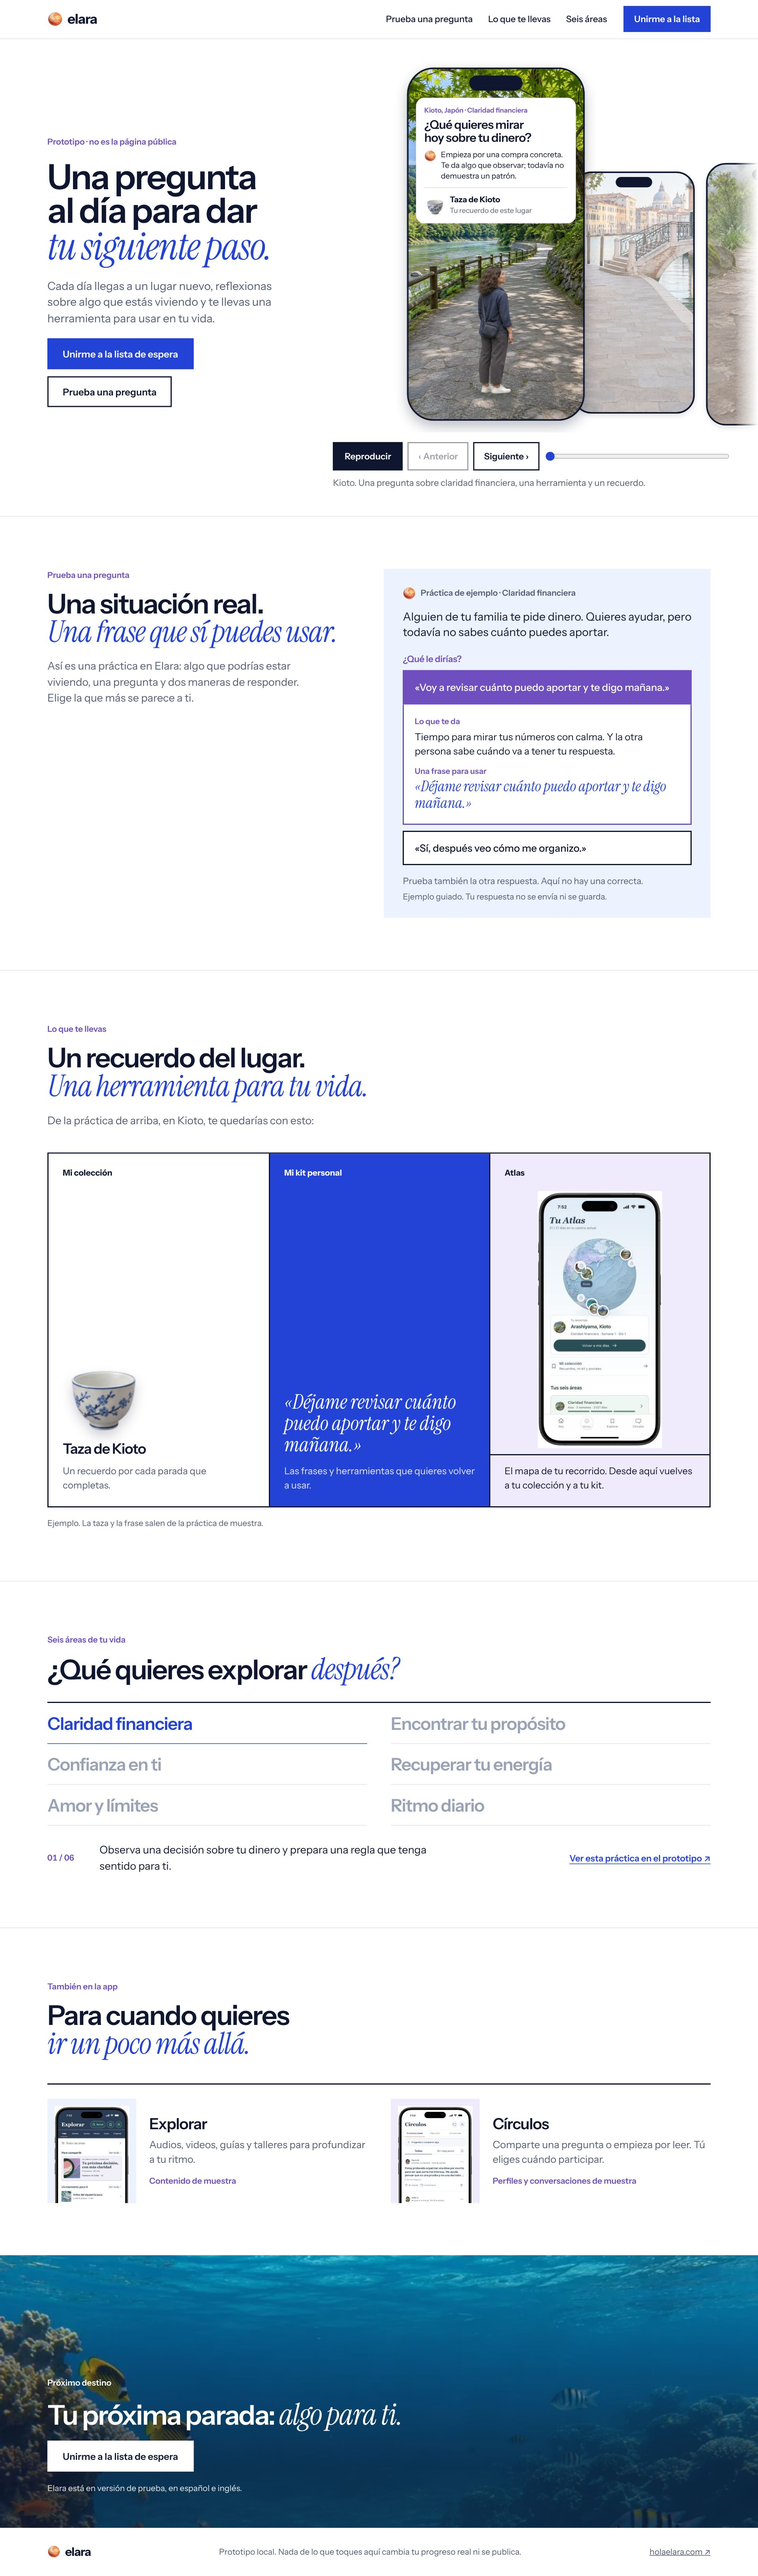
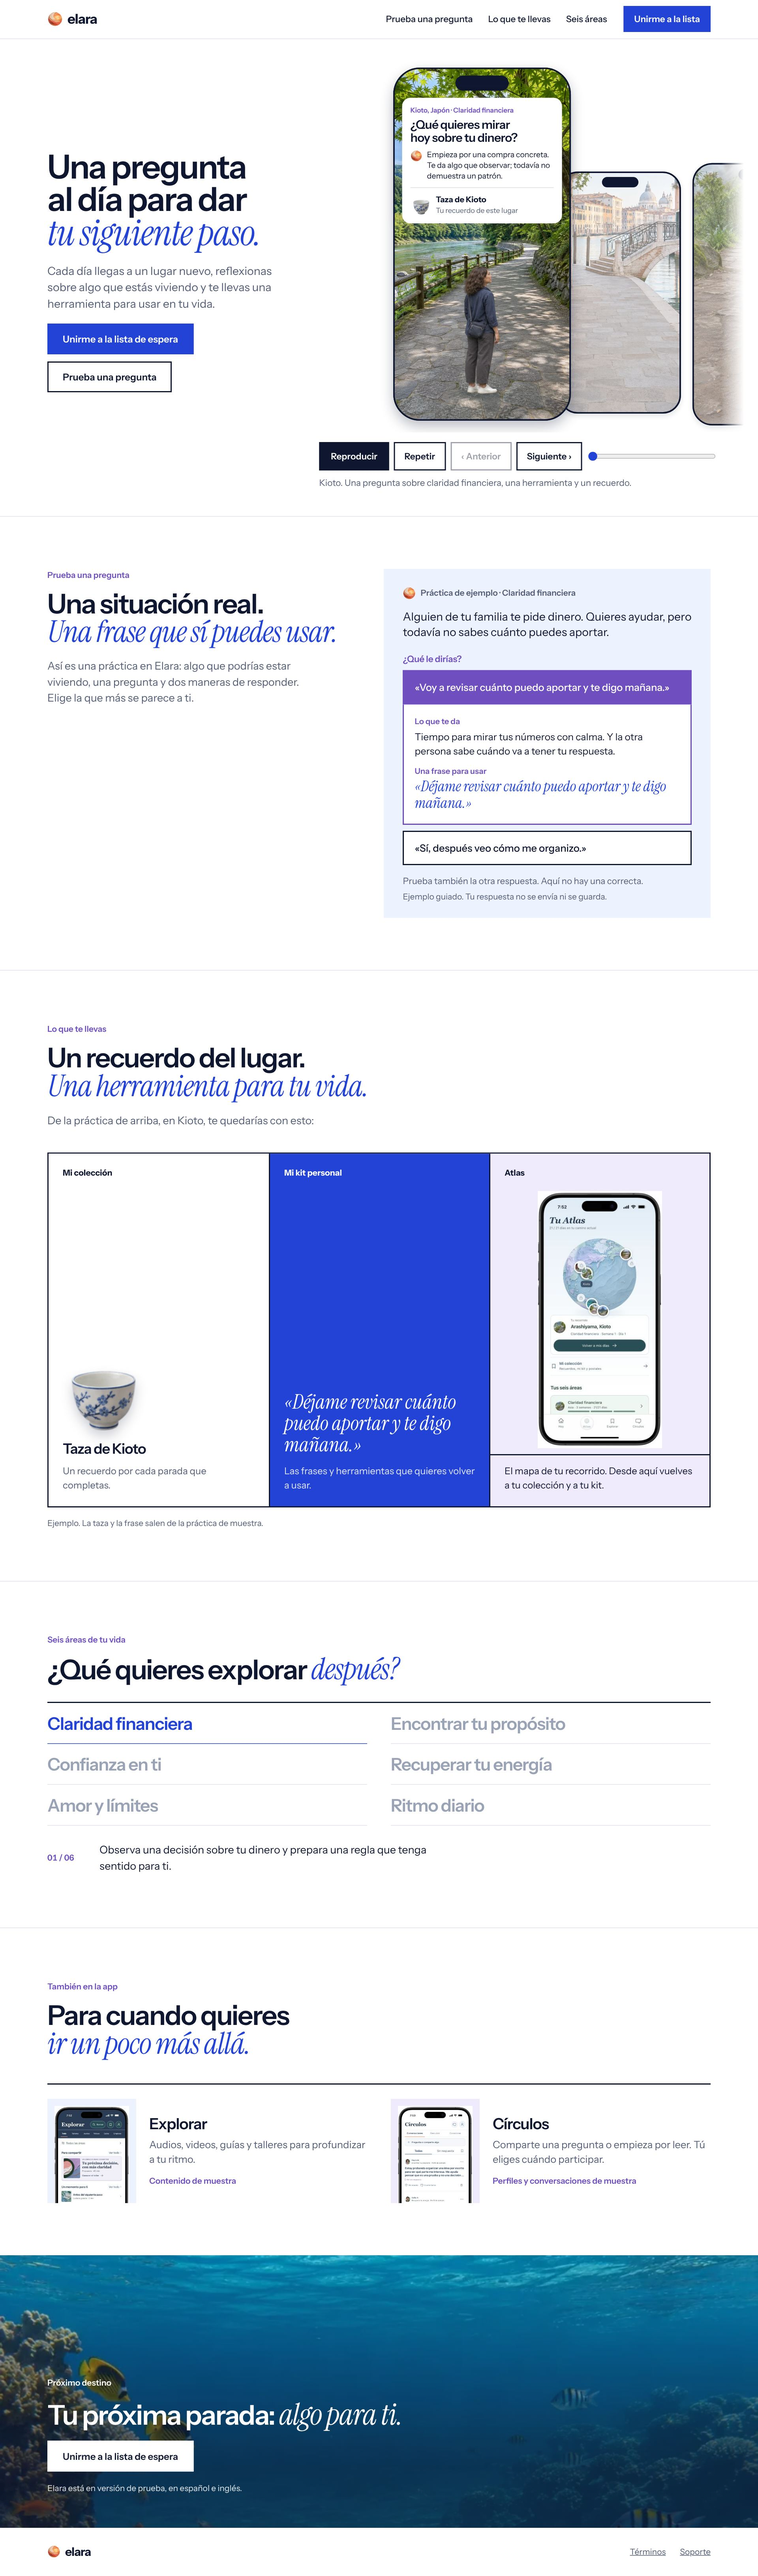
Homepage-v2, revision 5: animation 24px closer to the headline, replay button, launch cleanup, plain scripts
Claude-Session: https://claude.ai/code/session_016pxgwvGNEXtdJWN8f5VJRo

Changed region(s): [[0.5, 0.0, 1.0, 0.1868], [0.0625, 0.0623, 0.3438, 0.1557], [0.4062, 0.1557, 0.4375, 0.1868]]

diff --git a/deliverables/scenic-homepage-handoff/homepage-v2/page.css b/deliverables/scenic-homepage-handoff/homepage-v2/page.css
@@ -23,7 +23,7 @@ h1,h2,h3,p,ul,ol,figure,blockquote{margin:0}
 /* Type: one sans, set large and tight; a single italic serif phrase per heading */
 .kicker{font-size:14px;font-weight:600;color:var(--purple)}
 h1,h2{font-weight:600;letter-spacing:-.035em;color:var(--ink);text-wrap:balance}
-h1{font-size:clamp(40px,4.6vw,66px);line-height:.98}
+h1{font-size:clamp(40px,4.6vw,56px);line-height:.98}
 h2{font-size:clamp(32px,3.6vw,52px);line-height:1.02}
 h1 em,h2 em{font-family:var(--serif);font-weight:400;font-size:1.1em;letter-spacing:-.02em;color:var(--blue)}
 h3{font-size:19px;line-height:1.25;font-weight:600;letter-spacing:-.01em}
@@ -44,9 +44,13 @@ h3{font-size:19px;line-height:1.25;font-weight:600;letter-spacing:-.01em}
 
 /* Hero */
 .hero{display:grid;grid-template-columns:minmax(320px,1fr) 1.5fr;align-items:center;gap:8px;padding:24px 0 44px}
-.intro{display:grid;gap:20px;padding:0 16px 0 var(--side);max-width:calc(540px + var(--side));justify-self:start}
+.intro{display:grid;gap:20px;padding:0 44px 0 var(--side);justify-self:start}
+/* Wide desktop: a fixed-width copy column, so the phones keep the same distance from the headline at any width */
+@media (min-width:1100px){.hero{grid-template-columns:calc(var(--side) + 430px) minmax(0,1fr)}.intro{padding-right:44px}}
 .lead{max-width:440px;font-size:19px;line-height:1.45;color:var(--muted)}
-.show{min-width:0}
+.show{position:relative;min-width:0}
+/* Wide desktop: the whole animation block (phones, controls, caption) sits 24px closer to the headline; less on narrower desktops */
+@media (min-width:901px){.show{left:clamp(-24px,calc((1000px - 100vw)*.1),0px)}}
 .stage{position:relative;height:640px;overflow:hidden;
   -webkit-mask-image:linear-gradient(90deg,transparent 0,#000 6%,#000 95%,transparent 100%);mask-image:linear-gradient(90deg,transparent 0,#000 6%,#000 95%,transparent 100%)}
 .stage:focus-visible{outline-offset:-3px}
@@ -127,12 +131,12 @@ html:not(.js) .hint{display:none}
 .picker button{min-height:64px;padding:12px 0;border:0;border-bottom:1px solid var(--line);background:none;font:inherit;font-size:clamp(20px,2.3vw,30px);font-weight:600;letter-spacing:-.03em;text-align:left;color:#9aa2b6;cursor:pointer}
 .picker button:hover{color:var(--ink)}
 .picker button[aria-pressed=true]{color:var(--blue);border-bottom-color:var(--blue)}
-.detail{display:grid;grid-template-columns:64px 1fr auto;gap:24px;align-items:center;margin-top:26px;min-height:58px}
+.detail{display:grid;grid-template-columns:64px 1fr;gap:24px;align-items:center;margin-top:26px;min-height:58px}
 .num{font-size:14px;font-weight:600;color:var(--purple);font-variant-numeric:tabular-nums}
 .panels p{max-width:600px;font-size:18px}
 .js .panels b{display:none}
 .link{padding:13px 0;font-size:15px;font-weight:600;color:var(--blue);text-underline-offset:4px;white-space:nowrap}
-html:not(.js) .picker,html:not(.js) .num,html:not(.js) .link{display:none}
+html:not(.js) .picker,html:not(.js) .num{display:none}
 html:not(.js) .detail{display:block}
 html:not(.js) [data-panel][hidden]{display:block!important}
 html:not(.js) [data-panel]{margin-top:10px}
@@ -159,13 +163,14 @@ html:not(.js) [data-panel]{margin-top:10px}
 .close :focus-visible{outline-color:#fff}
 .foot{display:flex;align-items:center;justify-content:space-between;gap:20px;padding:18px var(--side);font-size:14px;color:var(--muted)}
 .foot .brand{font-size:20px}
+.foot nav{display:flex;gap:24px}
 .foot a:not(.brand){padding:12px 0}
 
 @media (max-width:900px){
   .nav{display:none}
   .top{justify-content:space-between}
   .hero{grid-template-columns:minmax(0,1fr);gap:22px;padding-top:28px}
-  .intro{padding:0 20px;max-width:600px}
+  .intro{padding:0 20px;max-width:600px;justify-self:center;width:100%}
   .stage{-webkit-mask-image:none;mask-image:none}
   .under{padding:0 20px}
   .band{padding:56px var(--side)}
@@ -188,7 +193,9 @@ html:not(.js) [data-panel]{margin-top:10px}
 @media (max-width:520px){
   .ctas .btn{width:100%}
   .close>div,.close .ctas{width:100%}
-  .controls button{flex:1 1 0;padding:0 10px}
+  .controls{display:grid;grid-template-columns:1fr 1fr}
+  .controls button{padding:0 10px}
+  #scrub{grid-column:1/-1;width:100%}
   #scrub{flex-basis:100%}
   .preview{grid-template-columns:112px minmax(0,1fr);gap:16px}
   .preview .crop{height:150px}.preview .crop img{width:98px}

diff --git a/deliverables/scenic-homepage-handoff/homepage-v2/crossing.js b/deliverables/scenic-homepage-handoff/homepage-v2/crossing.js
@@ -1,3 +1,5 @@
+// Classic script (no modules), so the page also runs when opened straight from a folder.
+(async () => {
 // Elara crossing prototype, five phones: ONE traveler, one timeline, one straight path.
 // Every phone is a window of a different size onto the same world. The phones vary; her
 // ground line does not. Everything drawn is a pure function of T (seconds), so pausing,
@@ -111,7 +113,8 @@ function drawTraveler(tr, key) {
   drawPose(sheet, meta, WALK_SIDE[n % 4], foot, body, 1);
   drawPose(sheet, meta, STAND, body, body, tr.stand);
 }
-function camera(tr) { return tr.body.x - viewW * (viewW > 700 ? .42 : .5); }   // the camera follows her; nothing spins
+const stacked = matchMedia('(max-width: 900px)');       // tablet and phone: the copy sits above, so she is centred
+function camera(tr) { return tr.body.x - viewW * (stacked.matches ? .5 : .42); }   // the camera follows her; nothing spins
 function draw() {
   const dpr = Math.min(2, devicePixelRatio || 1), cw = Math.round(viewW * scale * dpr), ch = Math.round(HT * scale * dpr);
   if (canvas.width !== cw || canvas.height !== ch) { canvas.width = cw; canvas.height = ch; }
@@ -210,6 +213,7 @@ try {
   $('#world').hidden = false; $('#controls').hidden = false; 
   document.documentElement.classList.add('ready'); loaded = true;
   $('#play').onclick = () => { if (T >= T_END - 1e-3) T = 0; paused = !paused; last = performance.now(); sync(); };
+  $('#replay').onclick = () => { T = 0; paused = still(); last = performance.now(); sync(); };
   $('#prev').onclick = () => jump(-1); $('#next').onclick = () => jump(1);
   $('#scrub').oninput = e => { T = e.target.value / 1000 * T_END; paused = true; sync(); };
   $('#stage').addEventListener('keydown', e => { if (e.key === 'ArrowRight') jump(1); if (e.key === 'ArrowLeft') jump(-1); });
@@ -217,8 +221,10 @@ try {
   new ResizeObserver(layout).observe($('#stage'));
   new IntersectionObserver(es => { visible = es[0].isIntersecting; last = performance.now(); }).observe($('#stage'));   // no drawing while it is scrolled away
   layout(); sync(); last = performance.now(); requestAnimationFrame(frame);
-  window.__crossing = { get T() { return T; }, set T(v) { T = v; paused = true; sync(); }, traveler: () => traveler(T), get paused() { return paused; }, T_END, SEG, DWELL, STEP, PHONES, arrive, BEATS, state: () => ({ t: traveler(T), cards: CARDS.map((_, i) => cardState(i)), caption: BEATS[beatAt(T)].say }) };
+  window.__crossing = { get T() { return T; }, set T(v) { T = v; paused = true; sync(); }, traveler: () => traveler(T), get paused() { return paused; }, T_END, SEG, DWELL, STEP, PHONES, arrive, HT, get scale() { return scale; }, left: () => { const tr = traveler(T), cam = camera(tr); return Math.min(...PHONES.map(ph => windowOf(ph, tr.body.x)).filter(w => w.x + w.w > cam).map(w => w.x - cam)); }, BEATS, state: () => ({ t: traveler(T), cards: CARDS.map((_, i) => cardState(i)), caption: BEATS[beatAt(T)].say }) };
 } catch (err) {
   $('#status').textContent = 'La animación no pudo cargarse. La imagen resume la escena y los enlaces siguen funcionando.';
   console.error(err);
 }
+
+})();

diff --git a/deliverables/scenic-homepage-handoff/homepage-v2/index.html b/deliverables/scenic-homepage-handoff/homepage-v2/index.html
@@ -3,10 +3,9 @@
 <head>
 <meta charset="utf-8">
 <meta name="viewport" content="width=device-width, initial-scale=1">
-<meta name="robots" content="noindex,nofollow">
-<title>Elara · Prototipo de página de inicio</title>
-<meta name="description" content="Prototipo local de la página de inicio de Elara. No es la página pública.">
-<link rel="icon" href="data:,">
+<title>Elara · Una pregunta al día para dar tu siguiente paso</title>
+<meta name="description" content="Cada día llegas a un lugar nuevo, reflexionas sobre algo que estás viviendo y te llevas una herramienta para usar en tu vida.">
+<link rel="icon" type="image/png" href="assets/orb.png">
 <link rel="preconnect" href="https://fonts.googleapis.com">
 <link rel="stylesheet" href="https://fonts.googleapis.com/css2?family=Instrument+Sans:wght@400;500;600;700&family=Instrument+Serif:ital@1&display=swap">
 <link rel="stylesheet" href="page.css">
@@ -25,7 +24,6 @@
 <main id="top">
 <div class="hero">
   <section class="intro">
-    <p class="kicker">Prototipo · no es la página pública</p>
     <h1>Una pregunta al día para dar <em>tu siguiente paso.</em></h1>
     <p class="lead">Cada día llegas a un lugar nuevo, reflexionas sobre algo que estás viviendo y te llevas una herramienta para usar en tu vida.</p>
     <p class="ctas"><a class="btn primary" href="https://holaelara.com/">Unirme a la lista de espera</a><a class="btn" href="#practice">Prueba una pregunta</a></p>
@@ -42,6 +40,7 @@
     <div class="under">
       <div class="controls" id="controls" hidden>
         <button type="button" id="play" class="main">Pausar</button>
+        <button type="button" id="replay">Repetir</button>
         <button type="button" id="prev">‹ Anterior</button>
         <button type="button" id="next">Siguiente ›</button>
         <input id="scrub" type="range" min="0" max="1000" value="0" aria-label="Posición en el recorrido">
@@ -127,7 +126,6 @@
         <p data-panel="relationships" hidden><b>Amor y límites. </b>Distingue lo que puedes ofrecer y prepara una petición o un límite concreto.</p>
         <p data-panel="rhythm" hidden><b>Ritmo diario. </b>Prueba una señal y un siguiente paso para retomar una rutina cuando cambia tu día.</p>
       </div>
-      <a class="link" id="path-link" href="https://elara-seven-day-journey.karawang3.chatgpt.site/?journey=money&day=1&lang=es">Ver esta práctica en el prototipo ↗</a>
     </div>
   </div>
 </section>
@@ -169,10 +167,9 @@
 
 <footer class="foot">
   <a class="brand" href="#top"><img src="assets/orb.png" alt="" width="22" height="22" loading="lazy">elara</a>
-  <span>Prototipo local. Nada de lo que toques aquí cambia tu progreso real ni se publica.</span>
-  <a href="https://holaelara.com/">holaelara.com ↗</a>
+  <nav aria-label="Legal y ayuda"><a href="https://holaelara.com/terms-and-conditions">Términos</a><a href="https://holaelara.com/support">Soporte</a></nav>
 </footer>
-<script type="module" src="crossing.mjs"></script>
-<script type="module" src="story.mjs"></script>
+<script defer src="crossing.js"></script>
+<script defer src="story.js"></script>
 </body>
 </html>

diff --git a/deliverables/scenic-homepage-handoff/homepage-v2/story.js b/deliverables/scenic-homepage-handoff/homepage-v2/story.js
@@ -1,3 +1,4 @@
+(() => {
 // Guided practice and the six-area chooser. Local only: nothing is sent or saved.
 const replies = [...document.querySelectorAll('[data-reply]')], hint = document.querySelector('#example-hint');
 replies.forEach(b => b.addEventListener('click', () => {
@@ -9,5 +10,5 @@ paths.forEach((b, i) => b.addEventListener('click', () => {
   paths.forEach(x => x.setAttribute('aria-pressed', String(x === b)));
   panels.forEach(p => { p.hidden = p.dataset.panel !== b.dataset.path; });
   document.querySelector('#path-number').textContent = `0${i + 1} / 06`;
-  document.querySelector('#path-link').href = `https://elara-seven-day-journey.karawang3.chatgpt.site/?journey=${b.dataset.path}&day=1&lang=es`;
 }));
+})();

diff --git a/deliverables/scenic-homepage-handoff/homepage-v2/NOTES.md b/deliverables/scenic-homepage-handoff/homepage-v2/NOTES.md
@@ -4,7 +4,7 @@ Local prototype only. Not deployed. `crossing-five/`, `crossing-prototype/`, `pr
 
 Run: `python3 -m http.server 4192 --bind 127.0.0.1` in this folder, then open http://localhost:4192/
 
-Files: `index.html`, `page.css` (whole page), `crossing.mjs` (traveler animation), `story.mjs` (example practice, six-area chooser).
+Files: `index.html`, `page.css` (whole page), `crossing.js` (traveler animation), `story.js` (guided practice, six-area chooser). Plain scripts, no modules, so `index.html` also runs opened straight from the folder.
 
 ## What moves and what is static
 - The traveler is a 2D sprite animation: 3 side-walk poses + 1 standing pose. Not video, not a rigged character.
@@ -19,6 +19,13 @@ Files: `index.html`, `page.css` (whole page), `crossing.mjs` (traveler animation
 - Practice: each response shows what it gives and a phrase to use. No scoring; both can be tried.
 - Style follows the live site tokens: cream paper, forest, navy, terracotta orange, Fraunces + Instrument Sans (Google Fonts). This replaces the white/blue/purple palette of revision 1.
 - Draft copy to approve: everything in the practice feedback, the "Lo que te llevas" lines, section headings, the Venice question and lesson.
+
+## Revision 5 (layout and launch cleanup)
+- Wide desktop: the animation block (phones, controls, scrubber, caption) sits 24 px closer to the headline; the shift tapers to 0 by 1000 px. The copy column has a fixed width from 1100 px up, so the gap is the same at 1280, 1440 and 1920: 35 px from the text to the animation area, and the leftmost phone's shadow clears the text at every point of the timeline.
+- Tablet and phone: the traveler is centred, with the headline and both buttons above.
+- Added a Repetir button. Controls: Pausar, Repetir, Anterior, Siguiente, scrubber (arrow keys, Home, End).
+- Launch cleanup: removed the "Prototipo" hero label, the "Prototipo local" footer note, the six-area link to the ChatGPT-hosted demo, and the noindex tag. Footer links to the live Términos and Soporte pages. Page title and description are real.
+- Not deployed. The folder is self-contained apart from Google Fonts.
 
 ## Revision 4 (no beige)
 - Cream, grain, Fraunces, orange tabs, rounded shadowed cards and the dark green close are gone.
